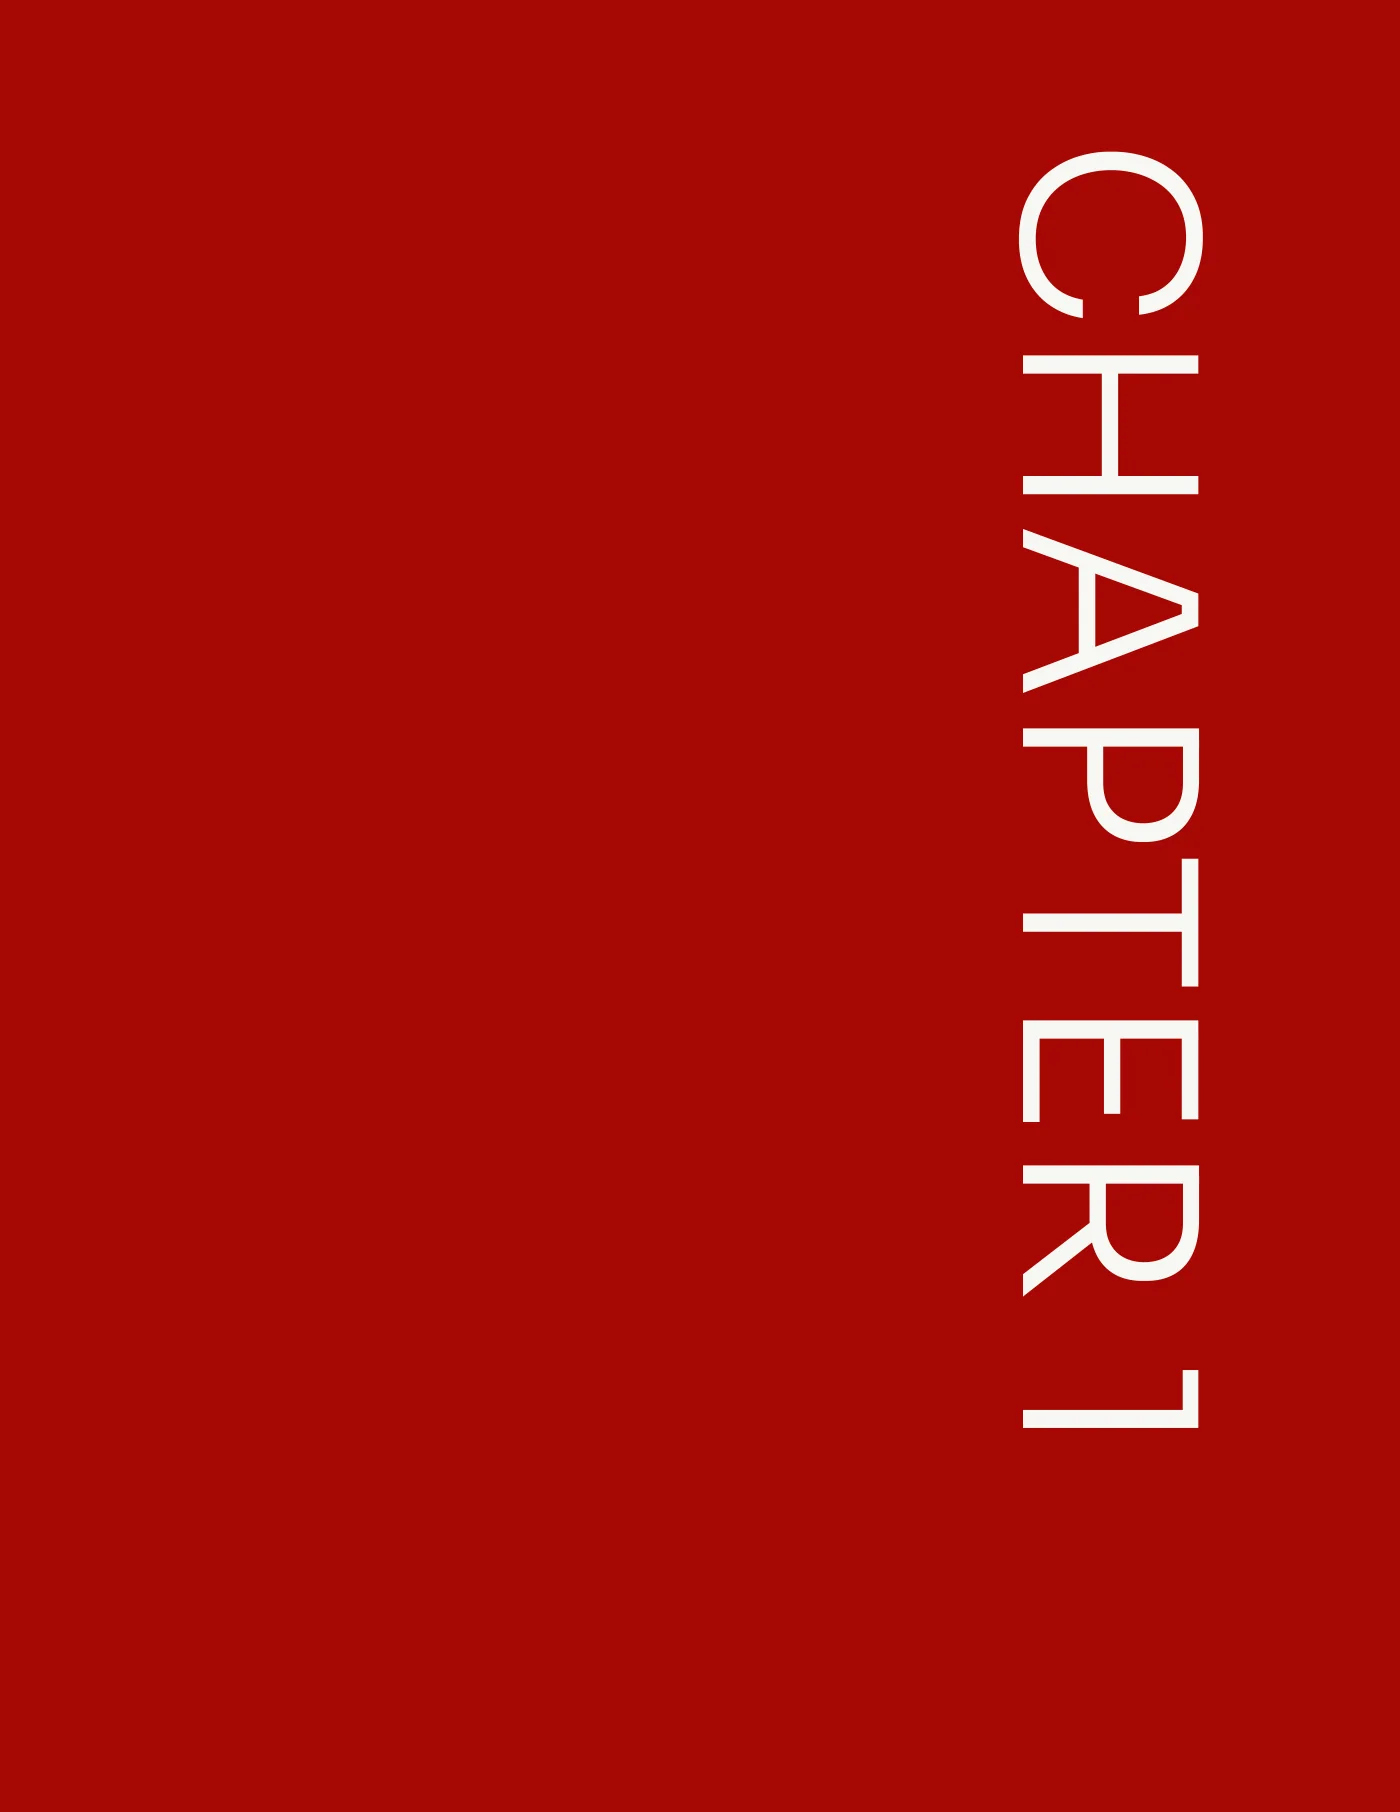
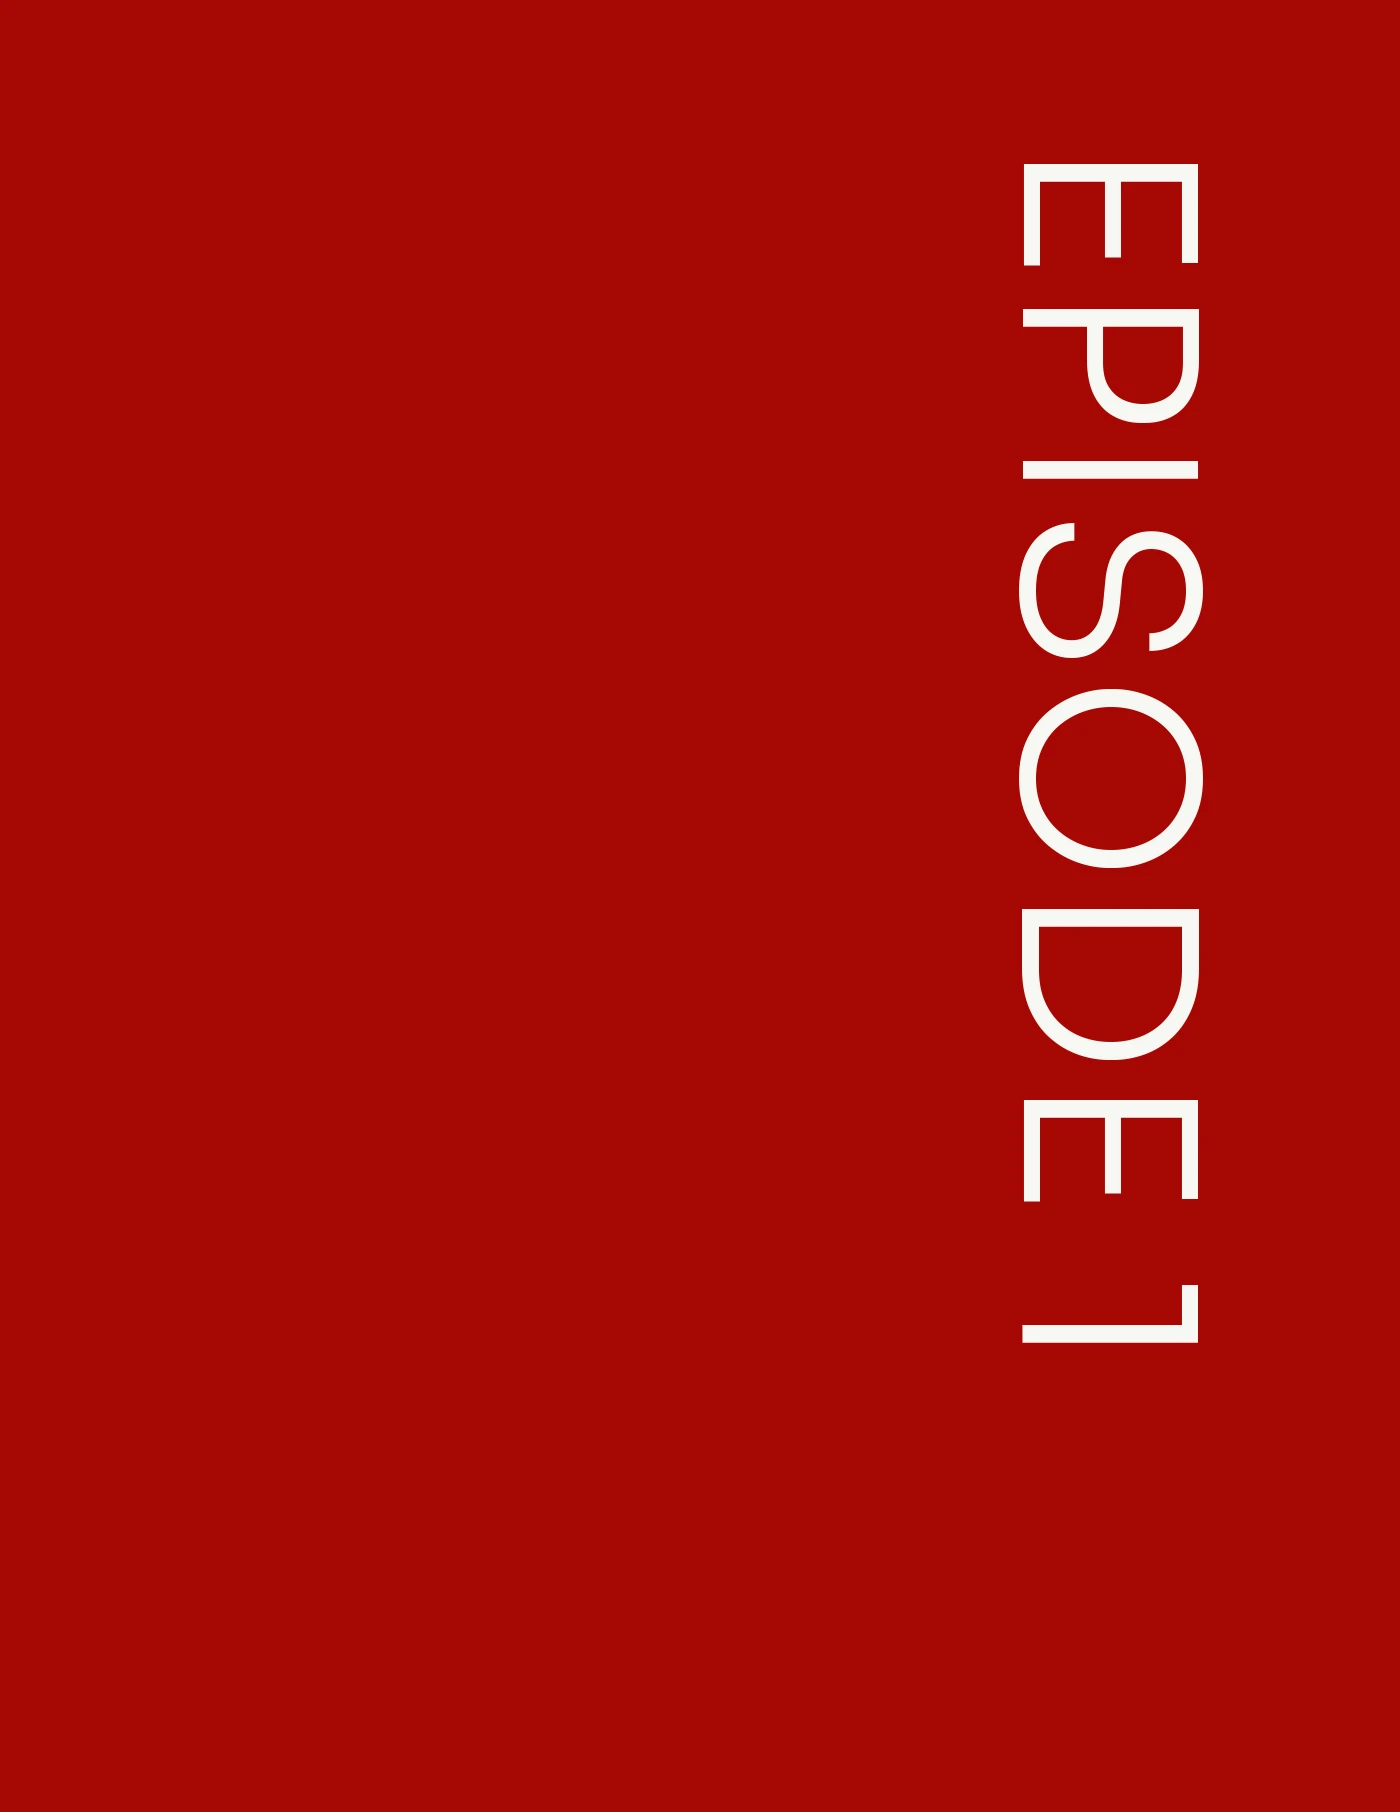
Holiday Special Teaser Final

Changed region(s): [[0.7064, 0.0618, 0.86, 0.8035]]

diff --git a/assets/data.js b/assets/data.js
@@ -232,16 +232,21 @@ window.NR = {
     },
     /* Holiday Special teaser (Nov 10), from TBH_HolidaySpecial_Teaser.pdf (13 pages): the PDF's first page is
        the cover (memoir02Teaser), its pages 2-12 are p01-p11 here (1400 px wide, like S1), and its last page is
-       the back cover (memoir02TeaserBack). Same spreads as the full Episode 1: CHAPTER 1 faces OH SHIT., PROLOGUE
-       faces its photo. One inside back cover in the PDF's own red (#a70804) evens the page count, so the last
-       page of text faces red and the back cover sits alone. The contents row for Episode 1 (p03) jumps to its
+       the back cover (memoir02TeaserBack). Same spreads as the full Episode 1: EPISODE 1 faces OH SHIT., PROLOGUE
+       faces its photo. (Nov 10, later) p05 now reads EPISODE 1 instead of CHAPTER 1 (redrawn in the same Sora Light,
+       same size and spot), and two closing pages from Kathi's holiday designs come after the last page of text:
+       p12 THIS IS NOT HALLMARK. (it faces that last page) and p13 TEA TIME STARTS WED 11:11 AM SLC, whose bottom
+       line reads READ ON SUBSTACK. and is a link. Her 1080 x 1350 designs are scaled to the page width with their
+       own background extended top and bottom. One inside back cover in the PDF's own red (#a70804) evens the page
+       count, so TEA TIME faces red and the back cover sits alone. The contents row for Episode 1 (p03) jumps to its
        opener (p05); Episodes 2-5 aren't in the teaser, so their rows aren't buttons. */
     "to-be-human-holiday-special": {
       kind: "pages", title: "To Be Human · Holiday Special · Kathi Eric Dalguntas",
-      pageDir: "tbh-holiday-teaser/", pageCount: 11, pageExt: "webp", back: "memoir02TeaserBack",
+      pageDir: "tbh-holiday-teaser/", pageCount: 13, pageExt: "webp", back: "memoir02TeaserBack",
       insideFront: false, insideBack: "#a70804",
       links: [
-        { page: 3, to: 5, label: "Episode 1: Oh Shit.", x: 268, y: 166, w: 410, h: 138 }
+        { page: 3, to: 5, label: "Episode 1: Oh Shit.", x: 268, y: 166, w: 410, h: 138 },
+        { page: 13, href: "https://chiefabsurdistofficer.substack.com/", label: "Read on Substack (opens a new tab)", x: 69, y: 920, w: 234, h: 42 }
       ]
     },
 

diff --git a/newsstand/index.html b/newsstand/index.html
@@ -114,7 +114,7 @@ html.from-light body::after { content: ""; position: fixed; inset: 0; z-index: 2
 
 <!-- Where the pictures live, then the data, the page-flip library, and the engine -->
 <script>window.NRNS_BASE = "../assets/img/";</script>
-<script src="../assets/data.js?v=2026-11-10a"></script>
+<script src="../assets/data.js?v=2026-11-10b"></script>
 <script src="../assets/vendor/page-flip.browser.js"></script>
 <script src="../assets/newsstand.js?v=2026-11-07b"></script>
 </body>
